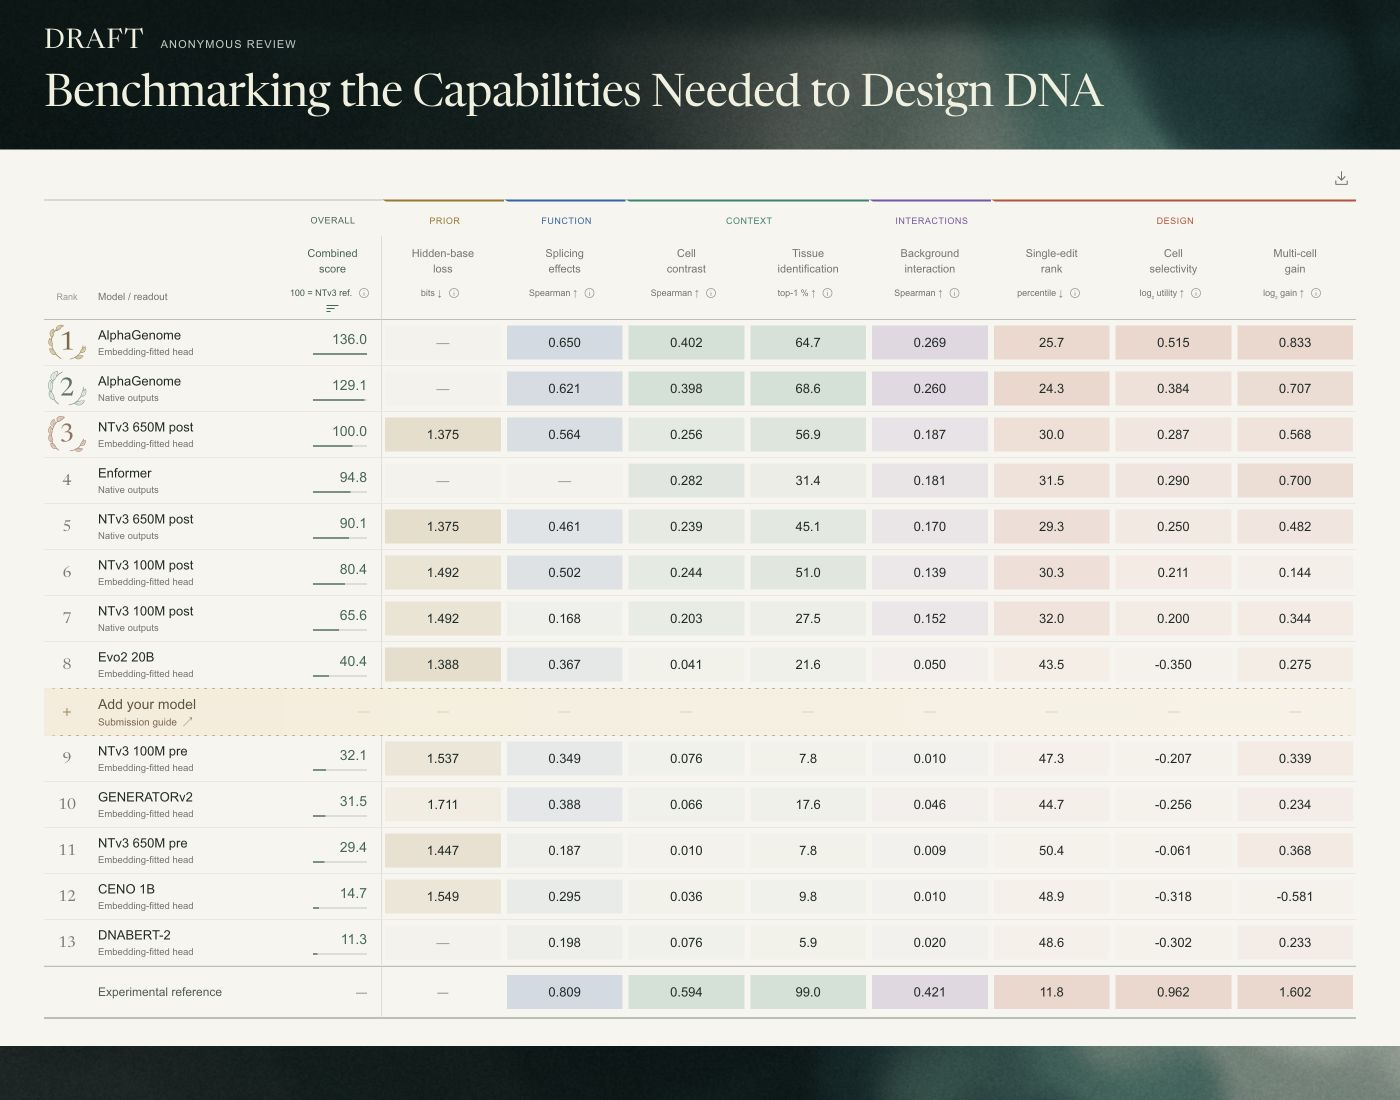
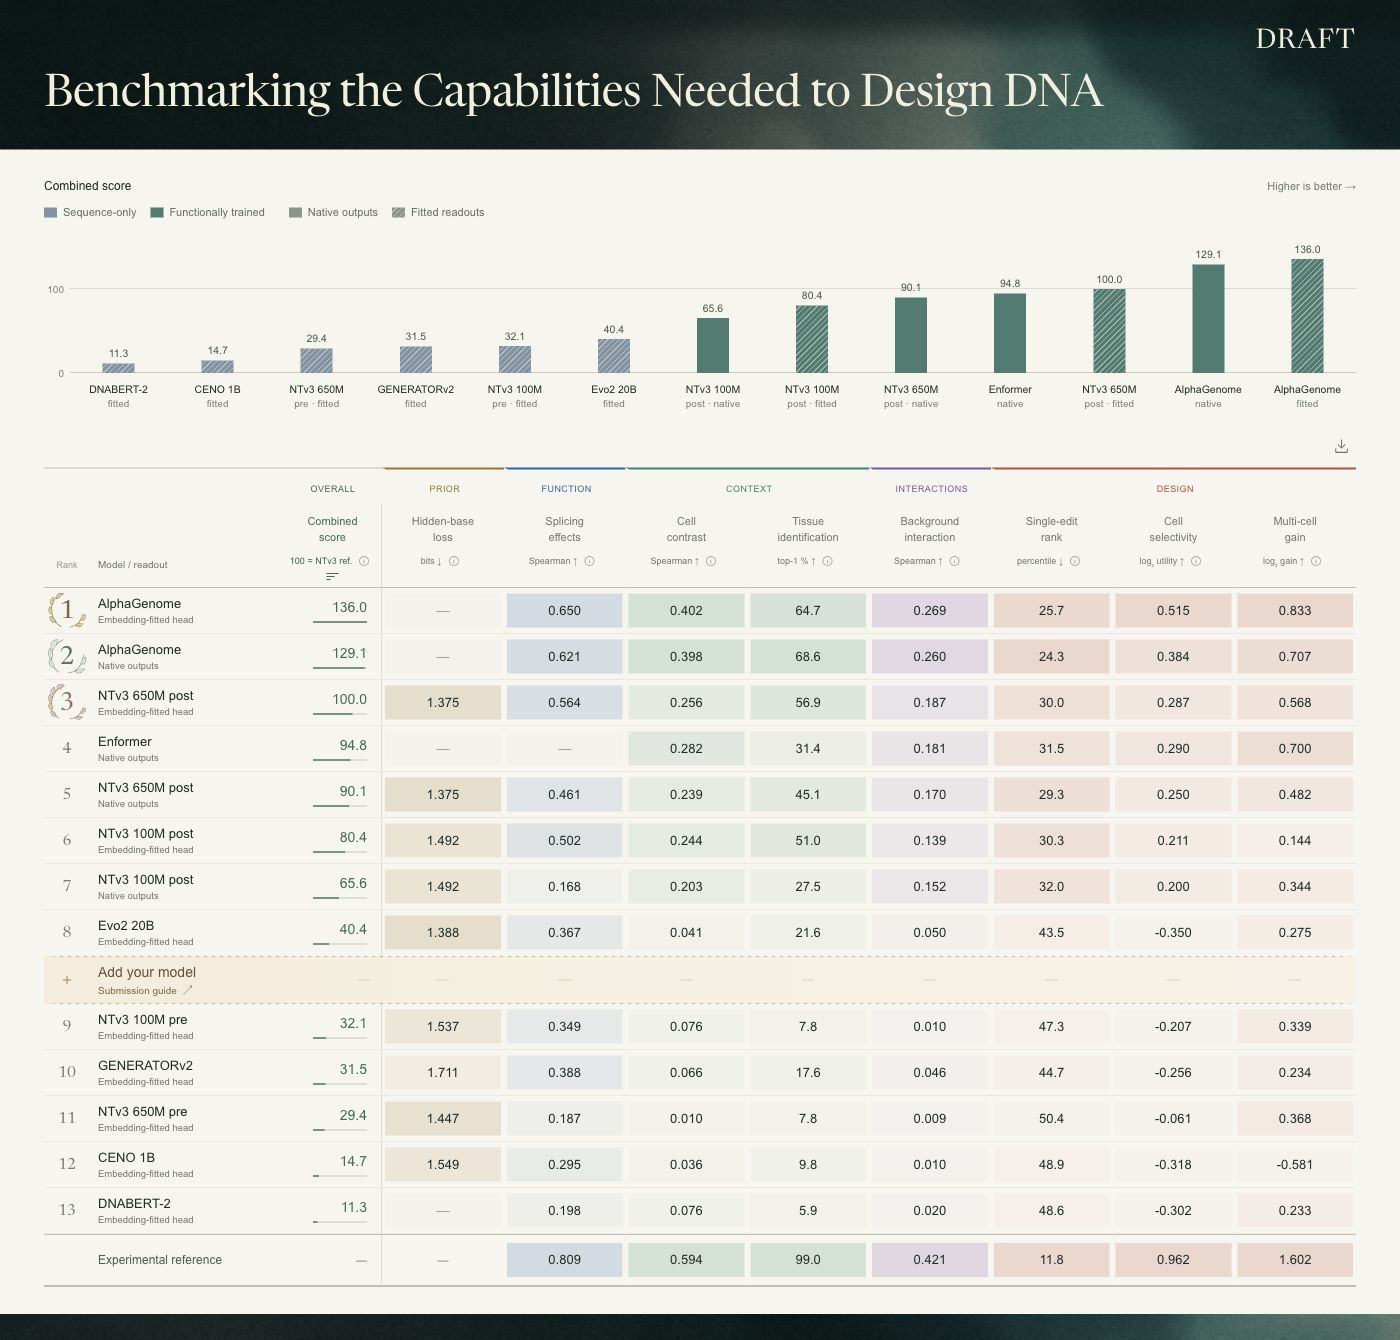
Refine leaderboard preview with score plot and corner wordmark

diff --git a/README.md b/README.md
@@ -12,7 +12,7 @@ We built DRAFT to test whether genomic models can guide the design of DNA. Acros
 <!-- BEGIN REFERENCE RESULTS -->
 ## Benchmark results
 
-[![DRAFT leaderboard with model rankings and the Add your model submission entry](docs/assets/leaderboard-preview.jpg)](docs/assets/leaderboard-preview.jpg)
+[![DRAFT score plot and leaderboard with the Add your model submission entry](docs/assets/leaderboard-preview.jpg)](docs/assets/leaderboard-preview.jpg)
 
 <details>
 <summary>Results as a text table</summary>
